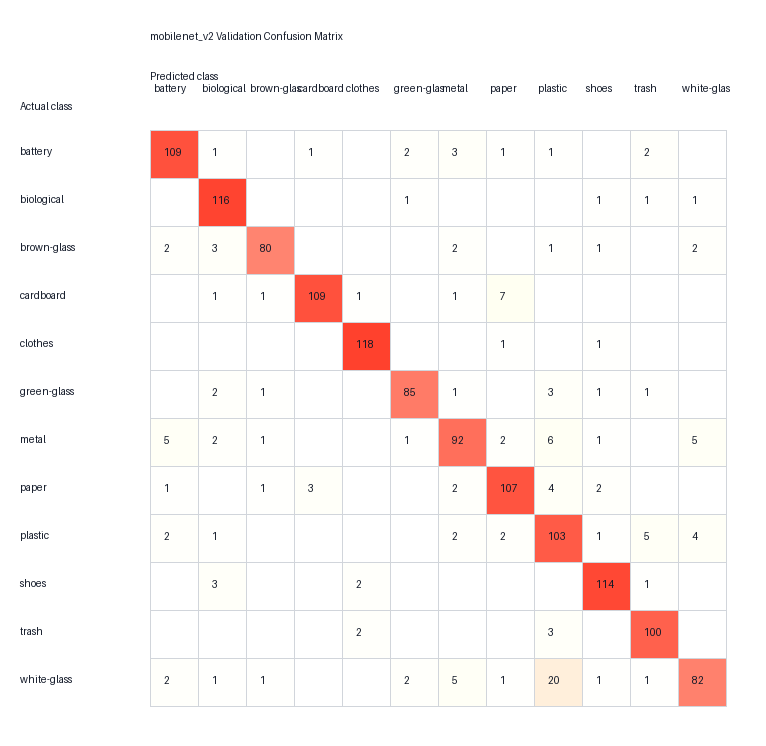
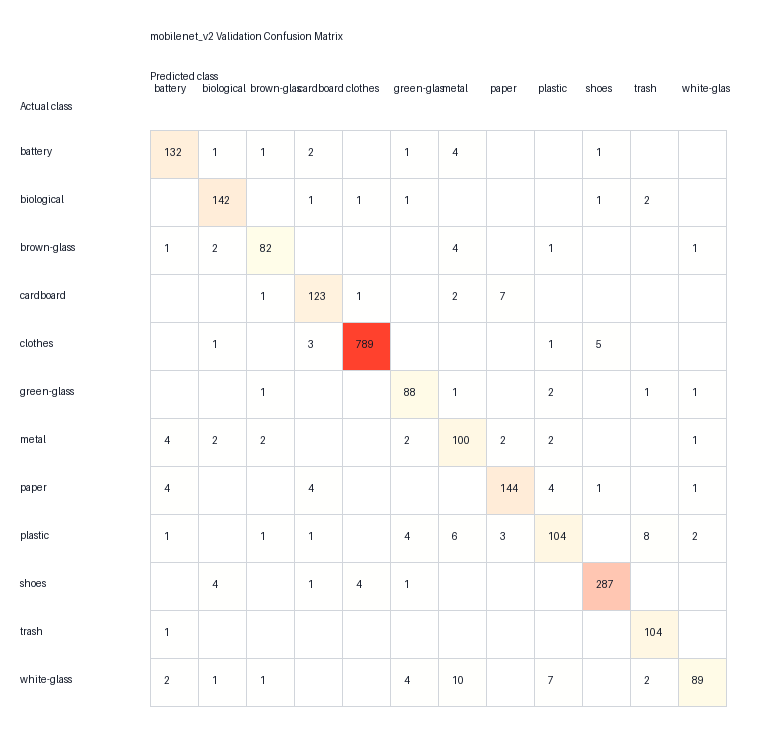
Update web app and MobileNet V2 results

Changed region(s): [[0.5104, 0.4933, 0.9608, 0.9558], [0.1802, 0.1542, 0.4504, 0.4316], [0.6906, 0.8633, 0.7807, 0.9558]]

diff --git a/app/app.py b/app/app.py
@@ -83,24 +83,185 @@ def predict(model, index_to_class, image_size, image: Image.Image):
 # ── page config ────────────────────────────────────────────────────────────────
 
 st.set_page_config(
-    page_title="Waste Image Classification Demo",
+    page_title="Waste Image Classification",
     page_icon="♻",
     layout="centered",
 )
 
+# ── custom styles ──────────────────────────────────────────────────────────────
+
+st.markdown("""
+<style>
+@import url('https://fonts.googleapis.com/css2?family=Inter:wght@300;400;500;600;700&display=swap');
+
+html, body, [class*="css"] {
+    font-family: 'Inter', sans-serif;
+}
+
+/* ── page background ── */
+.stApp {
+    background: linear-gradient(135deg, #0f0c29 0%, #1a1a2e 40%, #16213e 100%);
+    min-height: 100vh;
+}
+
+/* ── hero header block ── */
+.hero-block {
+    background: linear-gradient(135deg, #1a6b3a 0%, #0d9488 50%, #0ea5e9 100%);
+    border-radius: 18px;
+    padding: 2.2rem 2rem 1.8rem 2rem;
+    margin-bottom: 1.5rem;
+    box-shadow: 0 8px 32px rgba(14,165,233,0.25);
+    text-align: center;
+}
+.hero-block h1 {
+    color: #ffffff;
+    font-size: 2.1rem;
+    font-weight: 700;
+    margin: 0 0 0.3rem 0;
+    letter-spacing: -0.5px;
+    text-shadow: 0 2px 8px rgba(0,0,0,0.3);
+}
+.hero-block .sub {
+    color: rgba(255,255,255,0.78);
+    font-size: 0.85rem;
+    font-weight: 400;
+    letter-spacing: 0.5px;
+    margin-bottom: 0.9rem;
+}
+.hero-block .desc {
+    color: rgba(255,255,255,0.9);
+    font-size: 0.97rem;
+    line-height: 1.65;
+    max-width: 560px;
+    margin: 0 auto;
+}
+.hero-block .desc b {
+    color: #a7f3d0;
+}
+
+/* ── stat pills row ── */
+.stat-row {
+    display: flex;
+    justify-content: center;
+    gap: 0.8rem;
+    margin-top: 1.1rem;
+    flex-wrap: wrap;
+}
+.stat-pill {
+    background: rgba(255,255,255,0.15);
+    border: 1px solid rgba(255,255,255,0.25);
+    border-radius: 30px;
+    padding: 0.28rem 0.9rem;
+    font-size: 0.78rem;
+    color: #fff;
+    font-weight: 500;
+    backdrop-filter: blur(4px);
+}
+
+/* ── warning / success banners ── */
+.stAlert {
+    border-radius: 12px !important;
+    border: none !important;
+}
+div[data-baseweb="notification"] {
+    border-radius: 12px;
+}
+
+/* ── file uploader zone ── */
+[data-testid="stFileUploadDropzone"] {
+    background: linear-gradient(135deg, rgba(14,165,233,0.07), rgba(16,185,129,0.07)) !important;
+    border: 2px dashed rgba(14,165,233,0.45) !important;
+    border-radius: 14px !important;
+    transition: border-color 0.25s, background 0.25s;
+}
+[data-testid="stFileUploadDropzone"]:hover {
+    border-color: #0ea5e9 !important;
+    background: linear-gradient(135deg, rgba(14,165,233,0.13), rgba(16,185,129,0.13)) !important;
+}
+
+/* ── section label above uploader ── */
+[data-testid="stFileUploaderLabel"] {
+    font-size: 1rem !important;
+    font-weight: 600 !important;
+    color: #e2e8f0 !important;
+    margin-bottom: 0.4rem;
+}
+
+/* ── prediction label headers ── */
+h4 {
+    color: #a7f3d0 !important;
+    font-weight: 600 !important;
+    letter-spacing: 0.3px;
+}
+
+/* ── class badge inside prediction ── */
+.class-badge {
+    display: inline-block;
+    background: linear-gradient(90deg, #0d9488, #0ea5e9);
+    color: #fff;
+    font-weight: 700;
+    font-size: 1.25rem;
+    letter-spacing: 1px;
+    border-radius: 10px;
+    padding: 0.35rem 1.1rem;
+    margin: 0.3rem 0 0.6rem 0;
+    box-shadow: 0 4px 14px rgba(14,165,233,0.3);
+}
+
+/* ── progress bars ── */
+[role="progressbar"] > div {
+    background: linear-gradient(90deg, #0d9488, #0ea5e9) !important;
+    border-radius: 6px !important;
+}
+
+/* ── expander ── */
+[data-testid="stExpander"] {
+    background: rgba(255,255,255,0.04) !important;
+    border: 1px solid rgba(255,255,255,0.1) !important;
+    border-radius: 12px !important;
+}
+[data-testid="stExpander"] summary {
+    font-weight: 600;
+    color: #cbd5e1 !important;
+}
+
+/* ── image rounded ── */
+[data-testid="stImage"] img {
+    border-radius: 12px;
+    box-shadow: 0 4px 20px rgba(0,0,0,0.4);
+}
+
+/* ── divider ── */
+[data-testid="stDivider"] hr {
+    border-color: rgba(255,255,255,0.08) !important;
+}
+
+/* ── general text ── */
+p, li, label {
+    color: #cbd5e1;
+}
+</style>
+""", unsafe_allow_html=True)
+
 # ── title & description ────────────────────────────────────────────────────────
 
-st.title("♻ Waste Image Classification Demo")
-st.caption("CO5430 Computer Vision · Group G20 · Project P04")
-
-st.markdown(
-    """
-    Upload a photo of a waste item and the app will predict which of the
-    **12 waste categories** it belongs to.  
-    The model is **MobileNetV2** fine-tuned with transfer learning
-    (test accuracy 90.4 %, macro F1 0.865).
-    """
-)
+st.markdown("""
+<div class="hero-block">
+    <h1>♻ Waste Image Classification</h1>
+    <p class="sub">CO5430 Computer Vision &nbsp;·&nbsp; Group G20 &nbsp;·&nbsp; Project P04</p>
+    <p class="desc">
+        Upload a photo of a waste item and the app will predict which of the
+        <b>12 waste categories</b> it belongs to.<br>
+        Powered by <b>MobileNetV2</b> fine-tuned with transfer learning.
+    </p>
+    <div class="stat-row">
+        <span class="stat-pill">🎯 Test Accuracy 90.4%</span>
+        <span class="stat-pill">📊 Macro F1 0.865</span>
+        <span class="stat-pill">🗂 12 Classes</span>
+        <span class="stat-pill">🖼 15,515 Images</span>
+    </div>
+</div>
+""", unsafe_allow_html=True)
 
 # ── model loading ──────────────────────────────────────────────────────────────
 
@@ -137,7 +298,11 @@ if uploaded_file is not None:
 
     with col_info:
         if not model_ready:
-            st.info("Upload is shown above. Add the model checkpoint to get predictions.")
+            st.warning(
+                "⚠ **Model checkpoint not found.**  \n"
+                "Place `mobilenet_v2_v1.pt` inside the `models/` folder to run predictions.",
+                icon="📁",
+            )
         else:
             with st.spinner("Predicting…"):
                 ranked = predict(model, index_to_class, image_size, image)
@@ -146,7 +311,7 @@ if uploaded_file is not None:
 
             # ── top prediction ──
             st.markdown("#### Prediction")
-            st.markdown(f"**{top_class.upper()}**")
+            st.markdown(f'<div class="class-badge">{top_class.upper()}</div>', unsafe_allow_html=True)
             st.progress(top_prob, text=f"Confidence: {top_prob * 100:.1f} %")
 
             # ── disposal note ──
